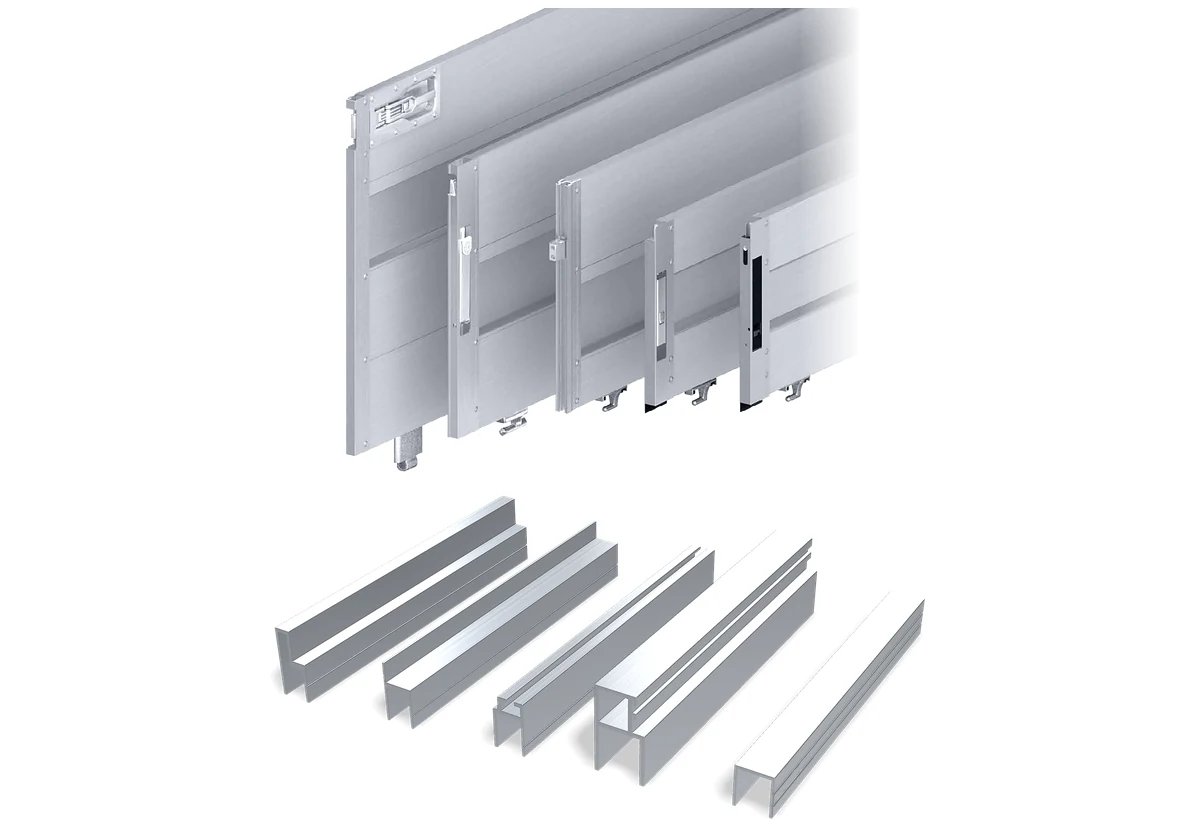
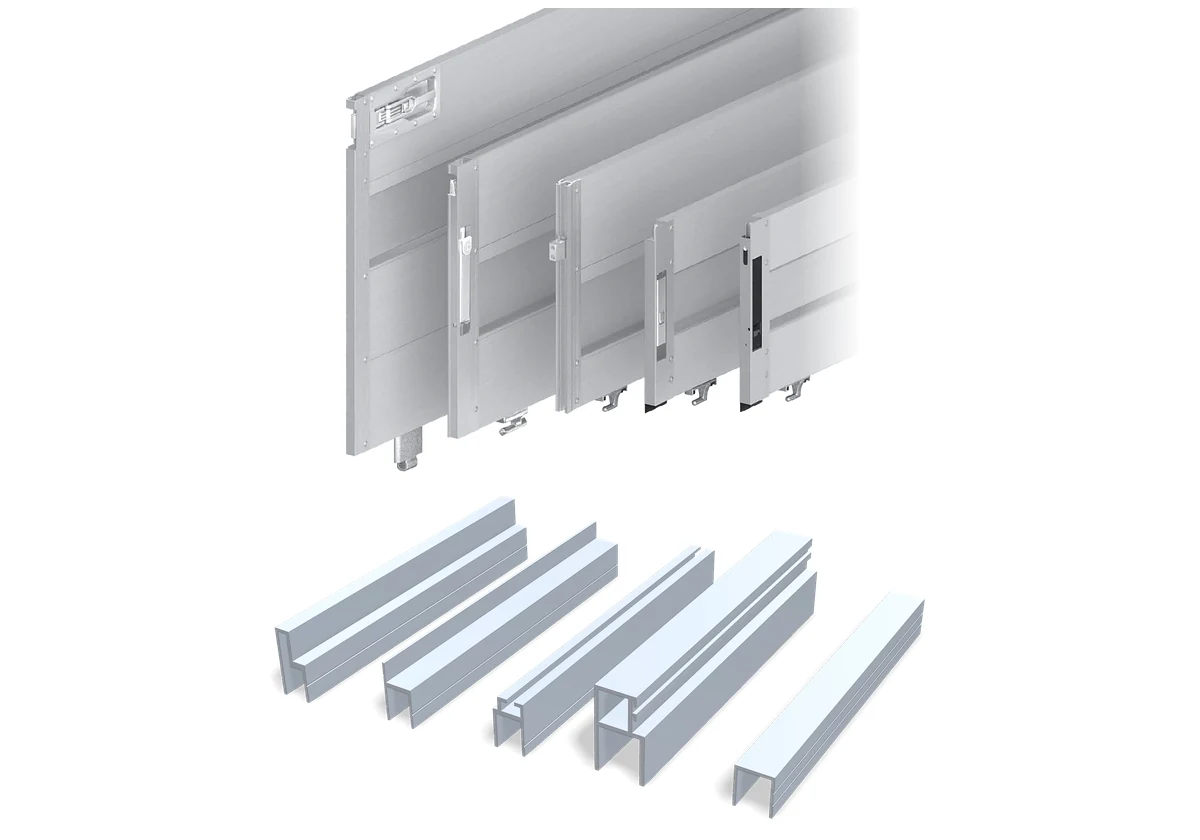
Oldalfal csoportkép: matt, szatén alumínium hatás, visszafogott fények (a Quadris mintafotója szerint)
Claude-Session: https://claude.ai/code/session_01GqcGcrqDWYvNfyrVUkczEM

diff --git a/scripts/profil3d/render.html b/scripts/profil3d/render.html
@@ -112,6 +112,8 @@ function metal(color, rough, streak, clear = 0) {
 const MAT = {
   alu: () => [metal(0xc9ced5, 0.34, 60), new THREE.MeshPhysicalMaterial({ color: 0xd9dde2, metalness: 1, roughness: 0.48 })],
   elox: () => [metal(0xdde1e6, 0.24, 36, 0.35), new THREE.MeshPhysicalMaterial({ color: 0xe4e7eb, metalness: 1, roughness: 0.42 })],
+  // szatén (matt) eloxált alumínium, lágy fényekkel – a katalógusfotók hatása (szegő profilsor)
+  satin: () => { const n = noise(160, 18, 256); return [new THREE.MeshPhysicalMaterial({ color: 0xb4b9bf, metalness: 0.35, roughness: 0.58, roughnessMap: n, envMapIntensity: 0.6 }), new THREE.MeshPhysicalMaterial({ color: 0xd0d3d7, metalness: 0.3, roughness: 0.5, envMapIntensity: 0.6 })]; },
   steel: () => { const n = noise(150, 70); return [new THREE.MeshPhysicalMaterial({ color: 0x5c636c, metalness: 0.85, roughness: 1, roughnessMap: n, bumpMap: n, bumpScale: 0.2 }), new THREE.MeshPhysicalMaterial({ color: 0x9aa1a9, metalness: 1, roughness: 0.4 })]; },
   // fekete gumi / PVC (takaró gumik): matt, nem fémes
   rubber: () => { const n = noise(90, 90); return [new THREE.MeshPhysicalMaterial({ color: 0x1b1c1e, metalness: 0, roughness: 0.62, roughnessMap: n, clearcoat: 0.25, clearcoatRoughness: 0.5 }), new THREE.MeshPhysicalMaterial({ color: 0x232426, metalness: 0, roughness: 0.55 })]; },
@@ -320,7 +322,7 @@ window.renderRow = (items) => {
     side.userData.tex?.forEach((t) => t.repeat.set(1 / 28, 1 / 2000));
     add(geo, [cap, side]);
   });
-  const W2 = 2600, H2 = 1500; renderer.setSize(W2, H2); renderer.toneMappingExposure = 0.8;
+  const W2 = 2600, H2 = 1500; renderer.setSize(W2, H2); renderer.toneMappingExposure = 0.72;
   const box = new THREE.Box3(); scene.children.filter((o) => o.isMesh && o.castShadow).forEach((m) => box.expandByObject(m));
   const c = box.getCenter(new THREE.Vector3()), sph = box.getBoundingSphere(new THREE.Sphere());
   const fov = 24, cam = new THREE.PerspectiveCamera(fov, W2 / H2, 0.01, 200);

diff --git a/scripts/oldalfal_csoportkep.py b/scripts/oldalfal_csoportkep.py
@@ -23,21 +23,26 @@ def profile_row(path):
     ys, xs = np.where(np.array(src)[..., 3] > 40)
     src = src.crop((xs.min() - 10, ys.min() - 10, xs.max() + 10, ys.max() + 10))
     rgb, al = src.convert("RGB"), src.split()[3]
-    rgb = ImageEnhance.Color(ImageEnhance.Contrast(rgb).enhance(1.25)).enhance(1.25)
+    # lágy, matt hatás (a Quadris mintafotója szerint): a tárgy átlagos tónusa ~185, a felső lapok sem égnek ki
+    a = np.array(rgb).astype(np.float32)
+    obj = np.array(al) > 128
+    gam = np.log(185 / 255) / np.log(max(a[obj].mean(), 1) / 255)
+    rgb = Image.fromarray((255 * (a / 255) ** gam).clip(0, 255).astype(np.uint8))
+    rgb = ImageEnhance.Contrast(rgb).enhance(1.12)
     a = np.array(rgb).astype(np.float32)
     e = cv2.Canny(cv2.GaussianBlur(a.astype(np.uint8), (0, 0), 0.9), 35, 100).astype(np.float32) / 255
     e = np.maximum(e, cv2.Canny((np.array(al) > 128).astype(np.uint8) * 255, 50, 150).astype(np.float32) / 255)
-    a = a * (1 - 0.35 * cv2.GaussianBlur(e, (0, 0), 0.6)[..., None])  # vékony sötét kontúr, mint a katalógusképen
-    row = Image.fromarray(a.clip(0, 255).astype(np.uint8)).filter(ImageFilter.UnsharpMask(1.2, 70, 2)).convert("RGBA")
+    a = a * (1 - 0.22 * cv2.GaussianBlur(e, (0, 0), 0.6)[..., None])  # vékony sötét kontúr, mint a katalógusképen
+    row = Image.fromarray(a.clip(0, 255).astype(np.uint8)).filter(ImageFilter.UnsharpMask(1.0, 40, 2)).convert("RGBA")
     row.putalpha(al)
     return row
 
 
 def side_walls():
     top = Image.open(ROOT / "data/forras/oldalfal_katalogus.png").convert("RGB")
-    t = np.array(ImageEnhance.Contrast(top).enhance(1.35)).astype(np.float32)
+    t = np.array(ImageEnhance.Contrast(top).enhance(1.1)).astype(np.float32)
     obj = (np.array(top).min(2) < 244)[..., None]
-    t = np.where(obj, t + np.array([-4, 0, 8], np.float32), 255)  # enyhe hideg fémes tónus, mint a renderen
+    t = np.where(obj, t + np.array([-2, 0, 3], np.float32), 255)  # enyhe hideg fémes tónus, mint a renderen
     top = Image.fromarray(t.clip(0, 255).astype(np.uint8)).filter(ImageFilter.UnsharpMask(1.2, 60, 2))
     m = (np.array(top).min(2) < 246).astype(np.float32)
     w = m.shape[1]
